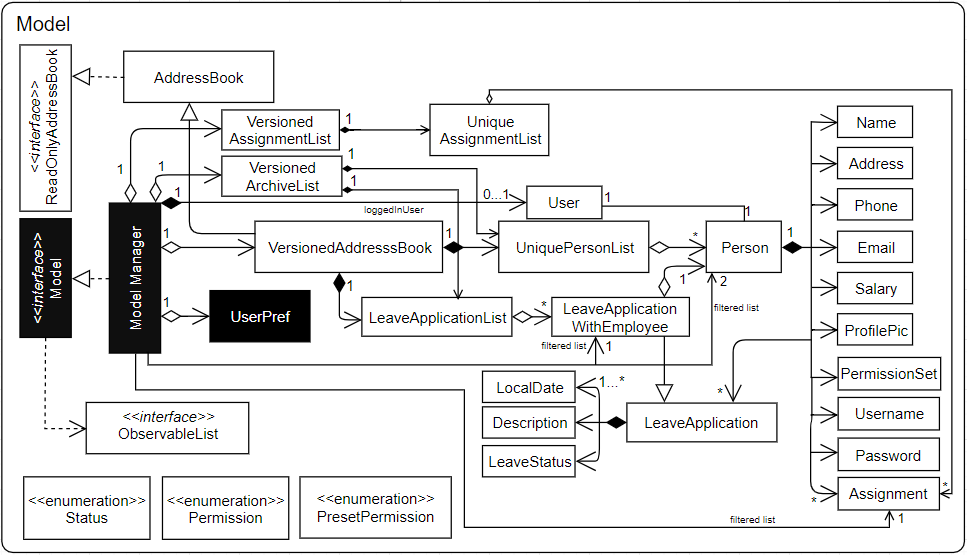
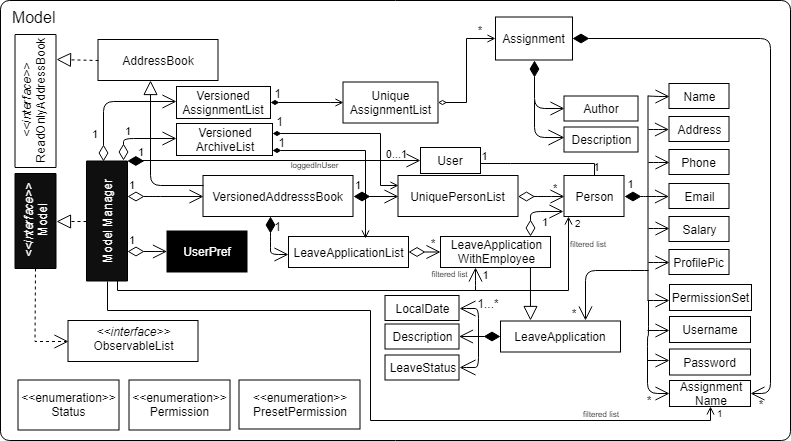
Rebuild pages at b1fd8416c5767b4eac8270f9d261b096c594d562

Changed region(s): [[0.0, 0.0, 1.0, 1.0]]

diff --git a/team/rnardha.html b/team/rnardha.html
@@ -164,6 +164,16 @@ the assignments exist withing the system.(Pull requests <a href="https://github.
 </ul>
 </div>
 </li>
+<li>
+<p>Documentation:</p>
+<div class="ulist">
+<ul>
+<li>
+<p>Updated Model and UI diagram.</p>
+</li>
+</ul>
+</div>
+</li>
 </ul>
 </div>
 </li>
@@ -529,4 +539,4 @@ enough key combination to accommodate all the commands.</p>
 </div>
 </div>
 </div>
-</div></div><div id="footer"><div class="container"><div id="footer-text">Last updated 2018-11-12 09:43:54 UTC</div></div></div></body></html>
+</div></div><div id="footer"><div class="container"><div id="footer-text">Last updated 2018-11-12 10:11:00 UTC</div></div></div></body></html>

diff --git a/ContactUs.html b/ContactUs.html
@@ -9,4 +9,4 @@
 <p><strong>Contributing</strong> : We welcome pull requests. Follow the process described <a href="https://github.com/oss-generic/process">here</a></p>
 </li>
 </ul>
-</div></div><div id="footer"><div class="container"><div id="footer-text">Last updated 2018-11-12 09:43:54 UTC</div></div></div></body></html>
+</div></div><div id="footer"><div class="container"><div id="footer-text">Last updated 2018-11-12 10:11:00 UTC</div></div></div></body></html>

diff --git a/HelpWindow.html b/HelpWindow.html
@@ -1580,4 +1580,4 @@ Once this command is ran, the history log of the commands and undo or redo histo
 </table>
 </div>
 </div>
-</div></div><div id="footer"><div class="container"><div id="footer-text">Last updated 2018-11-12 09:43:54 UTC</div></div></div></body></html>
+</div></div><div id="footer"><div class="container"><div id="footer-text">Last updated 2018-11-12 10:11:00 UTC</div></div></div></body></html>

diff --git a/UserGuide.html b/UserGuide.html
@@ -1580,4 +1580,4 @@ Once this command is ran, the history log of the commands and undo or redo histo
 </table>
 </div>
 </div>
-</div></div><div id="footer"><div class="container"><div id="footer-text">Last updated 2018-11-12 09:43:54 UTC</div></div></div></body></html>
+</div></div><div id="footer"><div class="container"><div id="footer-text">Last updated 2018-11-12 10:11:00 UTC</div></div></div></body></html>

diff --git a/LearningOutcomes.html b/LearningOutcomes.html
@@ -542,4 +542,4 @@ class gives some examples of how to use <em>Equivalence Partitions</em>, <em>Bou
 </div>
 </div>
 </div>
-</div></div><div id="footer"><div class="container"><div id="footer-text">Last updated 2018-11-12 09:43:54 UTC</div></div></div></body></html>
+</div></div><div id="footer"><div class="container"><div id="footer-text">Last updated 2018-11-12 10:11:00 UTC</div></div></div></body></html>

diff --git a/team/choojeremy.html b/team/choojeremy.html
@@ -702,4 +702,4 @@ When checking if 2 Passwords are the same, it is better to call <code>isSamePass
 </div>
 </div>
 </div>
-</div></div><div id="footer"><div class="container"><div id="footer-text">Last updated 2018-11-12 09:43:54 UTC</div></div></div></body></html>
+</div></div><div id="footer"><div class="container"><div id="footer-text">Last updated 2018-11-12 10:11:00 UTC</div></div></div></body></html>

diff --git a/team/elliottan.html b/team/elliottan.html
@@ -610,4 +610,4 @@ Alternative 2 is actually cleaner to implement and understand. However, Alternat
 </div>
 </div>
 </div>
-</div></div><div id="footer"><div class="container"><div id="footer-text">Last updated 2018-11-12 09:43:54 UTC</div></div></div></body></html>
+</div></div><div id="footer"><div class="container"><div id="footer-text">Last updated 2018-11-12 10:11:00 UTC</div></div></div></body></html>

diff --git a/team/jroberts91.html b/team/jroberts91.html
@@ -496,4 +496,4 @@ This feature improves OASIS significantly as it removes unwanted employee inform
 </div>
 </div>
 </div>
-</div></div><div id="footer"><div class="container"><div id="footer-text">Last updated 2018-11-12 09:43:54 UTC</div></div></div></body></html>
+</div></div><div id="footer"><div class="container"><div id="footer-text">Last updated 2018-11-12 10:11:00 UTC</div></div></div></body></html>

diff --git a/team/kokjianyu.html b/team/kokjianyu.html
@@ -664,4 +664,4 @@ The command will be executed successfully if at least one permission is added or
 </div>
 </div>
 </div>
-</div></div><div id="footer"><div class="container"><div id="footer-text">Last updated 2018-11-12 09:43:54 UTC</div></div></div></body></html>
+</div></div><div id="footer"><div class="container"><div id="footer-text">Last updated 2018-11-12 10:11:00 UTC</div></div></div></body></html>

diff --git a/UsingGradle.html b/UsingGradle.html
@@ -255,4 +255,4 @@ See <code>build.gradle</code> &#8594; <code>allprojects</code> &#8594; <code>dep
 </ul>
 </div>
 </div>
-</div></div><div id="footer"><div class="container"><div id="footer-text">Last updated 2018-11-12 09:43:54 UTC</div></div></div></body></html>
+</div></div><div id="footer"><div class="container"><div id="footer-text">Last updated 2018-11-12 10:11:00 UTC</div></div></div></body></html>

diff --git a/UsingNetlify.html b/UsingNetlify.html
@@ -123,4 +123,4 @@ The publish directory is the directory in which the built HTML documentation res
 </ol>
 </div>
 </div>
-</div></div><div id="footer"><div class="container"><div id="footer-text">Last updated 2018-11-12 09:43:54 UTC</div></div></div></body></html>
+</div></div><div id="footer"><div class="container"><div id="footer-text">Last updated 2018-11-12 10:11:00 UTC</div></div></div></body></html>

diff --git a/AboutUs.html b/AboutUs.html
@@ -108,4 +108,4 @@ Responsibilities: Permissions (Adding, Removing, Ensuring user has valid permiss
 <hr>
 </div>
 </div>
-</div></div><div id="footer"><div class="container"><div id="footer-text">Last updated 2018-11-12 09:43:54 UTC</div></div></div></body></html>
+</div></div><div id="footer"><div class="container"><div id="footer-text">Last updated 2018-11-12 10:11:00 UTC</div></div></div></body></html>
